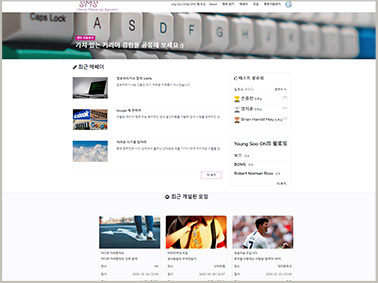
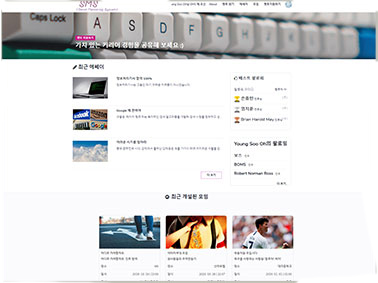
project 03 add

diff --git a/index.html b/index.html
@@ -96,7 +96,7 @@
                 <i class="fas fa-plus fa-3x"></i>
               </div>
             </div>
-            <img class="img-fluid" src="img/portfolio/02-thumbnail.jpg" alt="" ">
+            <img class="img-fluid" src="img/portfolio/02-thumbnail.jpg" alt="">
           </a>
           <div class="portfolio-caption">
             <h4>SMS</h4>
@@ -104,7 +104,7 @@
           </div>
         </div>
         <div class="col-md-4 col-sm-6 portfolio-item">
-          <a class="portfolio-link" data-toggle="modal" href="#">
+          <a class="portfolio-link" data-toggle="modal" href="#portfolioModal3">
             <div class="portfolio-hover">
               <div class="portfolio-hover-content">
                 <i class="fas fa-plus fa-3x"></i>
@@ -113,8 +113,8 @@
             <img class="img-fluid" src="img/portfolio/03-thumbnail.jpg" alt="">
           </a>
           <div class="portfolio-caption">
-            <h4>Next</h4>
-            <p class="text-muted">...ing</p>
+            <h4>Java Developer Choi Bum Sik</h4>
+            <p class="text-muted">Project 03</p>
           </div>
         </div>  
       </div>
@@ -225,7 +225,7 @@
     <div class="container">
       <div class="row">
         <div class="col-lg-12 text-center">
-          <h2 class="section-heading text-uppercase">Contact Us</h2>
+          <h2 class="section-heading text-uppercase">Contact Me</h2>
           <h3 class="section-subheading text-muted"></h3>
         </div>
       </div>
@@ -402,13 +402,13 @@
                 <!-- Project Details Go Here -->
                 <h2 class="text-uppercase">Project Name</h2>
                 <p class="item-intro text-muted">...ing!</p>
-                <img class="img-fluid d-block mx-auto" src="img/portfolio/#" alt="">
-                <p>...ing!</p>
+                <img class="img-fluid d-block mx-auto" src="img/portfolio/03-full.jpg" alt="">
+                <p>Portfolio Site</p>
                 <ul class="list-inline">
-                  <li>Date: 0000</li>
-                  <li>Languages: </li>
-                  <li>Tools: </li>
-                  <li>Category: </li>
+                  <li>Languages: HTML5, JavaScript, CSS</li>
+                  <li>Tools: Bootstrap</li>
+                  <li>Category: About, Portfolio, Skills, Contact Me, Facebook, Instagram</li>
+                  <li>View Project: <a href="https://github.com/trigger18/Portfolio">Go My Work</a></li>
                 </ul>
                 <button class="btn btn-primary" data-dismiss="modal" type="button">
                   <i class="fas fa-times"></i>
@@ -421,7 +421,7 @@
     </div>
   </div>
 
- 
+
   <!-- Bootstrap core JavaScript -->
   <script src="vendor/jquery/jquery.min.js"></script>
   <script src="vendor/bootstrap/js/bootstrap.bundle.min.js"></script>

diff --git a/README.md b/README.md
@@ -1,1 +1,56 @@
-Hallo!
+# Portfolio
+
+## About Project
+- Portfolio Site
+<img src="/project_images/main.jpg" style="width: 500px; height: 350px" />
+
+- 최범식의 포토폴리오 사이트입니다.
+- Resume/Lebenslaub 버튼을 클릭하면, 이력서를 볼 수 있다.
+
+<br />
+
+## Structure
+
+<img src="/project_images/about.jpg" style="width: 500px; height: 350px" />
+
+- 학력 사항을 확인 할 수 있다.
+
+<br />
+
+## Structure
+
+<img src="/project_images/potrfolio_list.jpg" style="width: 500px; height: 350px" />
+
+- 프로젝트를 리스트로 나타낸다.
+- 클릭하면 세부 사항을 학인 할 수 있다.
+
+<br />
+
+## Structure
+
+<img src="/project_images/project_view.jpg" style="width: 500px; height: 350px" />
+
+- 클릭 후 세부 사항을 띄워 준다.
+- 세부 내역 하단부에 Go My Work을 클릭하면, Github로 이동된다.
+- 작업한 내역을 확인 할 수 있다.
+
+<br />
+
+## Structure
+
+<img src="/project_images/skills.jpg" style="width: 500px; height: 350px" />
+
+- 프로젝트에 사용된 Languages, DBMS, Tools, etc 을 확인 할 수있다.
+
+<br />
+
+## Structure
+
+<img src="/project_images/contact me.jpg" style="width: 500px; height: 350px" />
+
+- 이름, 연락처, 이메일주소, 간단한 메세지를 최범식에게 보낼 수 있다.
+
+<br />
+
+[report]: <https://github.com/trigger18/Portfolio>
+
